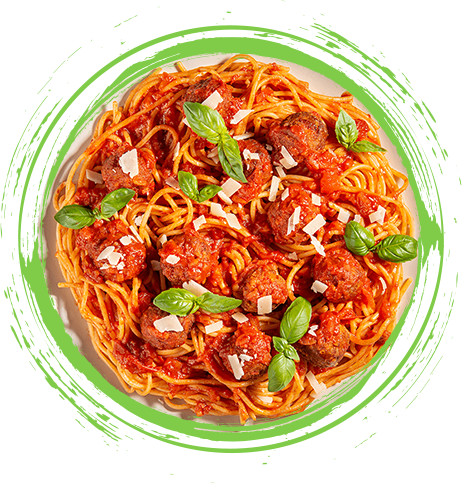
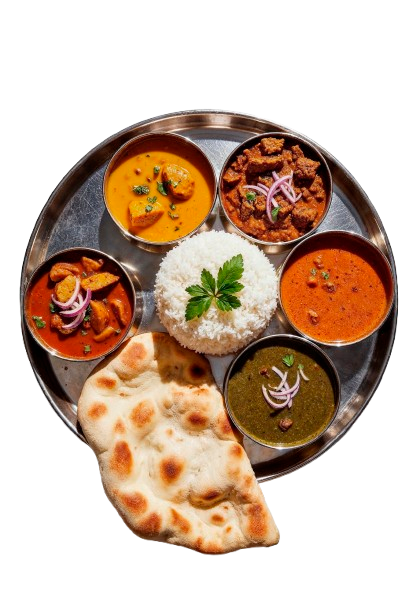
few mor

diff --git a/Website_react/src/components/About.jsx b/Website_react/src/components/About.jsx
@@ -6,7 +6,7 @@ const About = () => {
     <>
       <Helmet>
         {/* Meta tags only - title is set by main page Banner component */}
-        <meta name="description" content="Learn about Teja Hotel & Restaurant in Lunawada, Mahisagar. Experience contemporary elegance, innovative cuisine, and excellent service. Ideal for business meetings, romantic evenings, and family dining." />
+        <meta name="description" content="Teja Hotel & Restaurant - Best restaurant in Lunawada and Mahisagar serving authentic Punjabi food, Gujarati cuisine, Chinese dishes, and South Indian food. Located near Godhra-Lunawada highway. Perfect for family dining and celebrations." />
         <meta name="keywords" content="about Teja Hotel Lunawada, Teja Restaurant Lunawada, hotel restaurant Mahisagar, dining Lunawada" />
         <link rel="canonical" href="https://www.hotelteja.in/#restaurant" />
       </Helmet>
@@ -37,11 +37,10 @@ const About = () => {
                   Delight You     
                 </motion.h2>
                 <p>
-                  Discover a culinary haven at Teja, where a diverse menu awaits. Savor the flavors of North Indian, Chinese, Gujarati, South Indian, Pizza, Sandwiches, and more. Indulge in a delightful array of beverages. Experience a gastronomic journey like no other.
+                  Welcome to Teja Hotel & Restaurant, the best restaurant in Lunawada and Mahisagar. We serve fresh, tasty food every day. Our menu includes spicy Punjabi dishes, traditional Gujarati food, Chinese food, South Indian meals, and delicious snacks.
                 </p>
                 <p>
-                  Teja blends contemporary elegance and comfort with innovative cuisine and excellent service. The original menu and unique decor make Teja an ideal setting for business meetings, romantic 
-                  evenings, or a night out with friends.
+                  Teja Restaurant is located near the Godhra-Lunawada highway, making it easy to find. We use fresh ingredients and traditional recipes to make every meal special. Come visit us in Lunawada, Mahisagar, and taste the best Punjabi food and Gujarati cuisine in the area.
                 </p>
               </div>
             </div>
@@ -49,13 +48,12 @@ const About = () => {
           <div className="col-lg-6 align-self-center">
             <div className="img">
               <motion.img 
-                src="/assets/images/J_J_5849.JPG" 
-                alt="Teja Hotel & Restaurant interior in Lunawada, Mahisagar - Modern dining space" 
+                src="/assets/images/image_thali.png" 
+                alt="Teja Hotel & Restaurant traditional Indian thali meal in Lunawada, Mahisagar - Authentic cuisine" 
                 initial={{ opacity: 0, scale: 0.9 }}
                 whileInView={{ opacity: 1, scale: 1 }}
                 viewport={{ once: true }}
                 transition={{ duration: 0.8, delay: 0.3 }}
-                style={{ width: '145%', height: 'auto', borderRadius: '10px', boxShadow: 'rgba(0, 0, 0, 0.2) 0px 10px 40px' }}
               />
             </div>
           </div>

diff --git a/Website_react/src/components/Statistics.jsx b/Website_react/src/components/Statistics.jsx
@@ -10,6 +10,23 @@ const Statistics = () => {
 
   return (
     <section className="statistics-section" id="cuisines">
+      <style>{`
+        .statistics-section .stat-item {
+          transition: all 0.3s ease;
+          cursor: pointer;
+        }
+        .statistics-section .stat-item:hover {
+          transform: translateY(-10px);
+        }
+        .statistics-section .stat-item:hover .icon img {
+          transform: scale(1.1);
+          transition: transform 0.3s ease;
+        }
+        .statistics-section .stat-item:hover .info {
+          color: #dc3545;
+          font-weight: 600;
+        }
+      `}</style>
       <div className="container">
         <div className="row justify-content-center">
           <div className="col-lg-8">
@@ -31,7 +48,7 @@ const Statistics = () => {
                   viewport={{ once: true }}
                   transition={{ duration: 0.6, delay: 0.1 }}
                 >
-                  A Culinary Journey Across Lunawada
+                  Our Delicious Food Menu
                 </motion.h2>
                 <motion.p 
                   className="text"
@@ -40,7 +57,7 @@ const Statistics = () => {
                   viewport={{ once: true }}
                   transition={{ duration: 0.6, delay: 0.2 }}
                 >
-                  Experience the rich and diverse flavors of India with our authentic cuisine selection. From the sweet and savory delights of Gujarat to the robust flavors of Punjab, the aromatic spices of Chinese cuisine, and the traditional taste of South India - we bring you the best of every region.
+                  At Teja Restaurant in Lunawada, Mahisagar, we serve four types of tasty food. Enjoy traditional Gujarati food with sweet and spicy flavors. Try our spicy Punjabi dishes that are full of flavor. Taste our Chinese food with fresh vegetables and sauces. Or choose from our South Indian meals with rice and curry. All our food is made fresh daily with the best ingredients.
                 </motion.p>
               </div>
             </div>

diff --git a/Website_react/src/components/Menu.jsx b/Website_react/src/components/Menu.jsx
@@ -7,7 +7,7 @@ const Menu = () => {
   const [activeTab, setActiveTab] = useState('starters')
 
   const MenuItem = ({ item }) => (
-    <tr>
+    <tr className="menu-item-row">
       <td>
         <div className="col-one">
           <h4 className="title">{item.title}</h4>
@@ -41,6 +41,23 @@ const Menu = () => {
         <meta name="description" content="Best Punjabi food in Lunawada and Mahisagar. Teja Restaurant offers authentic Punjabi food, Gujarati cuisine, Chinese dishes, and South Indian food. Explore our menu and book a table today." />
         <meta name="keywords" content="Punjabi food Lunawada, Punjabi food Mahisagar, best Punjabi food Lunawada, restaurant menu Lunawada, Gujarati food Lunawada, Chinese food Lunawada, South Indian food Lunawada, Teja Restaurant menu, Punjabi thali Lunawada" />
         <link rel="canonical" href="https://www.hotelteja.in/#menu" />
+        <style>{`
+          .menu-item-row {
+            transition: all 0.3s ease;
+            cursor: pointer;
+          }
+          .menu-item-row:hover {
+            background-color: rgba(220, 53, 69, 0.05);
+            transform: translateX(5px);
+          }
+          .menu-item-row:hover .title {
+            color: #dc3545;
+          }
+          .menu-item-row:hover .price {
+            color: #dc3545;
+            font-weight: 600;
+          }
+        `}</style>
       </Helmet>
       <section className="menu-section" id="menu">
         <img className="shape1" src="/assets/images/menu-left.png" alt="Decorative shape for Teja Restaurant menu section" />
